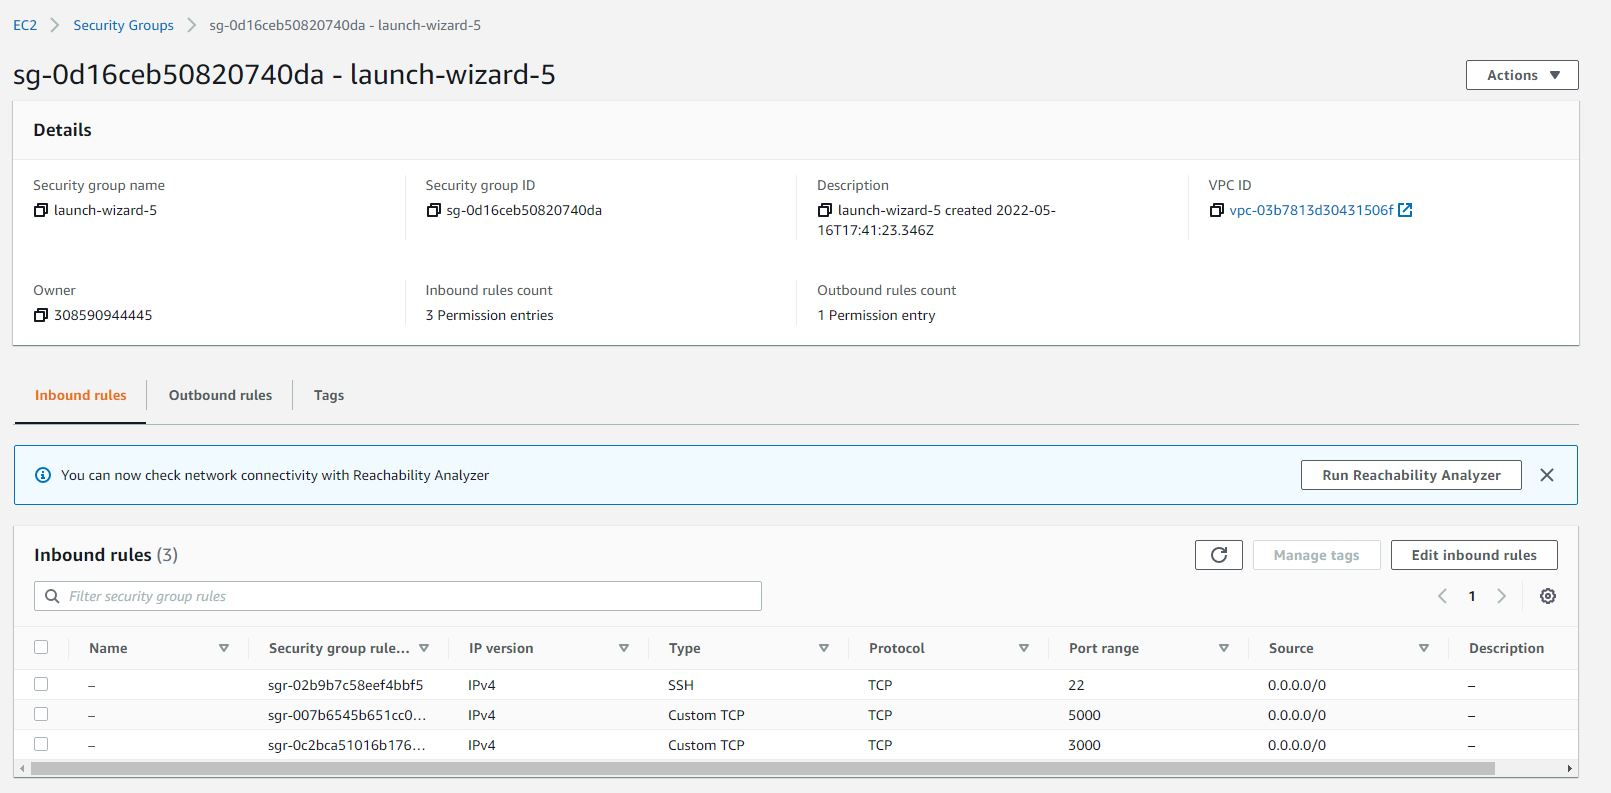
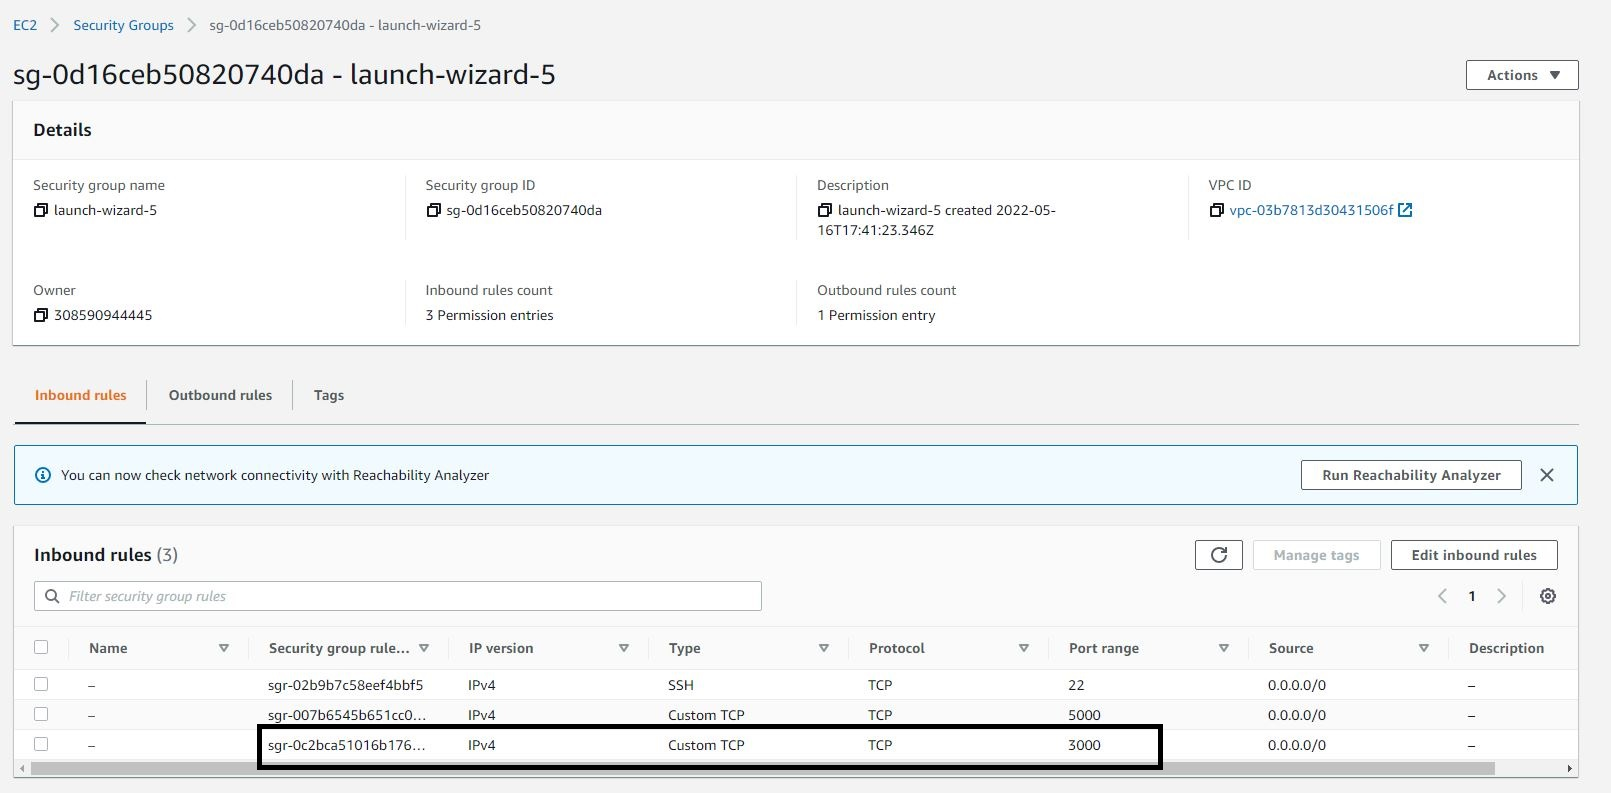
Writing to Project-3

Changed region(s): [[0.1552, 0.9079, 0.7449, 0.9685]]

diff --git a/project3.md b/project3.md
@@ -444,4 +444,64 @@ Now, ensure you are inside the Todo directory, and simply do:
 
 <code>npm run dev</code>
 
-Your app should open and start running on localhost:3000
+![alt text](./Images/npm%20run%20dev.JPG)
+
+Your app should open and start running on localhost:3000, create an inbound rule for port 3000
+
+![alt text](./Images/inbound%20port%203000.JPG/)
+
+This will open and start running
+
+![alt text](./Images/npm%20run%20dev%202%20React.JPG)
+
+### Creating your React Components
+
+One of the advantages of react is that it makes use of components, which are reusable and also makes code modular. For our Todo app, there will be two stateful components and one stateless component.
+
+From your Todo directory run
+
+<code>cd client</code>
+
+move to the src directory
+
+<code>cd src</code>
+
+Inside your src folder create another folder called components
+
+<code>mkdir components</code>
+
+Move into the components directory with
+
+<code>cd components</code>
+
+Inside ‘components’ directory create three files Input.js, ListTodo.js and Todo.js.
+
+<code>touch Input.js ListTodo.js Todo.js</code>
+
+Open Input.js file
+
+<code>vi Input.js</code>
+
+Copy and paste the following
+
+![alt text](./Images/code%20coding.JPG)
+
+![alt text](./Images/vi%20Input.js%20react.JPG)
+
+To make use of Axios, which is a Promise based HTTP client for the browser and node.js, you need to cd into your client from your terminal and run yarn add axios or npm install axios.
+
+Move to the src folder
+
+<code>cd .. </code>
+
+Move to clients folder
+
+<code>cd ..</code>
+
+Install Axios
+
+<code>install npm install axios</code>
+
+![alt text](./Images/npm%20install%20axios.JPG )
+
+Sip a coffee, click on the next button and let finish this up.
